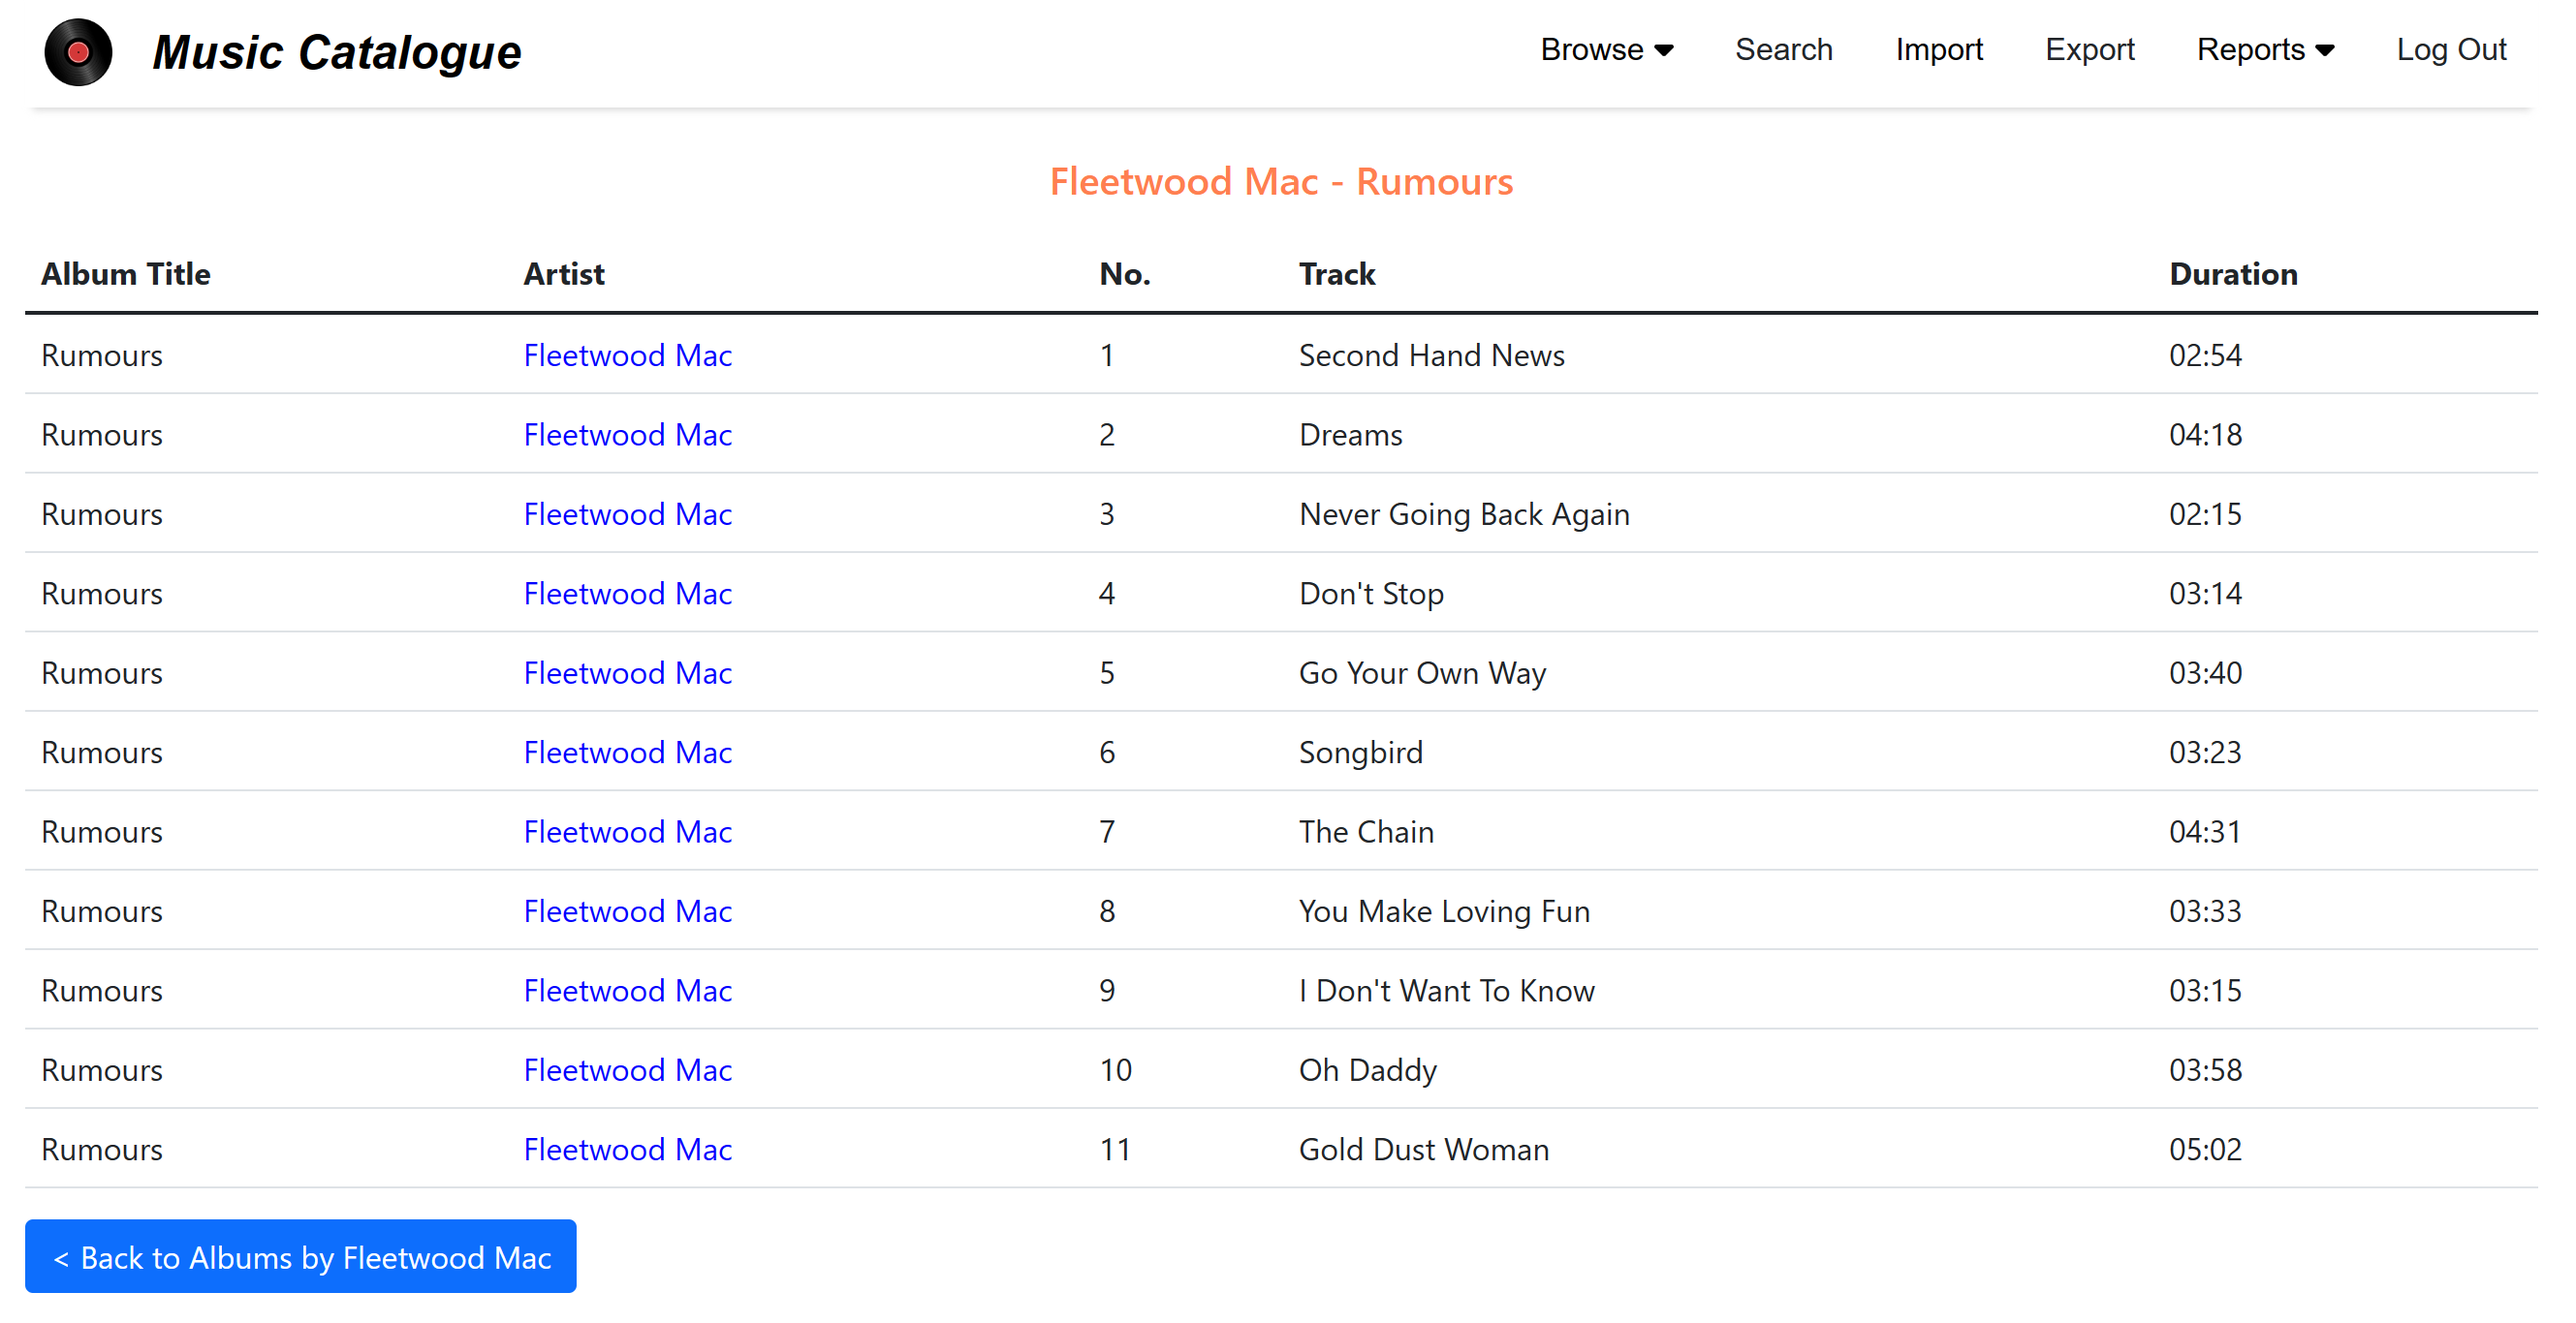
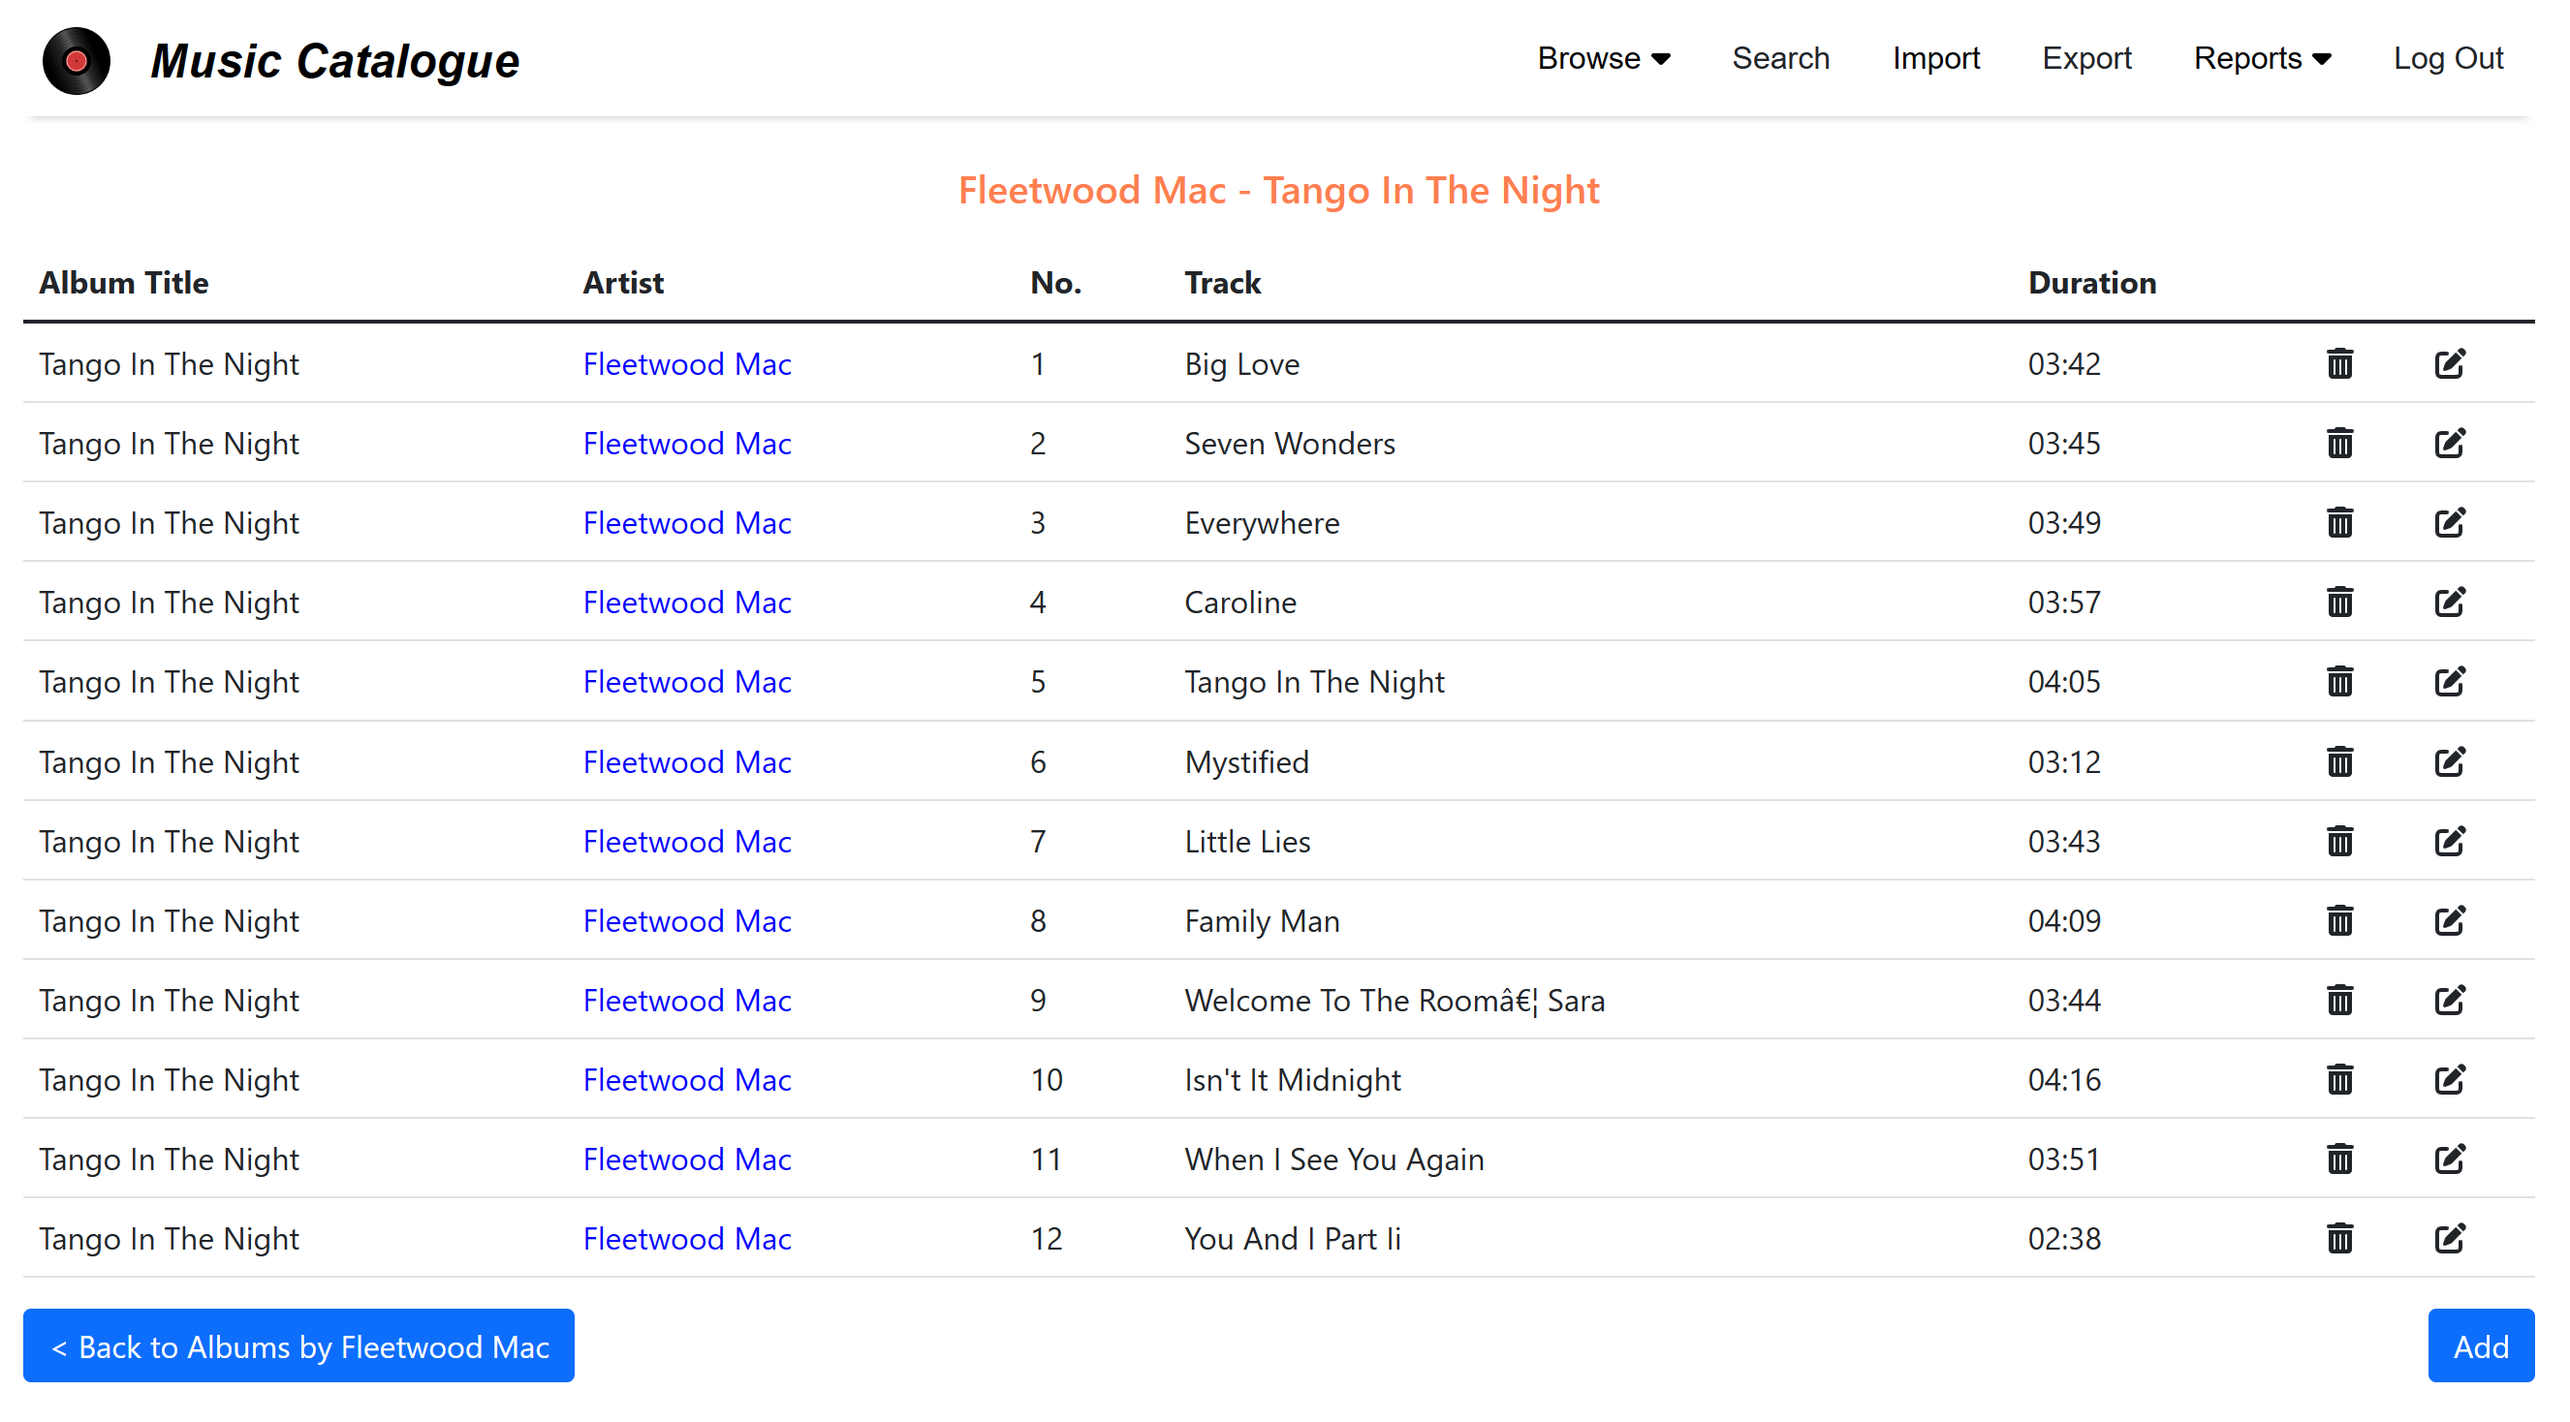
Added ability to add new tracks via the UI

diff --git a/src/music-catalogue-ui/components/trackEditor.js b/src/music-catalogue-ui/components/trackEditor.js
@@ -8,7 +8,7 @@ const TrackEditor = ({ track, album, artist, navigate, logout }) => {
   // Split the track's formatted duration on the ":"
   let initialMinutes = null;
   let initialSeconds = null;
-  if (track.formattedDuration != null) {
+  if (track != null && track.formattedDuration != null) {
     const elements = track.formattedDuration.split(":");
     if (elements.length > 0) {
       initialMinutes = elements[0];
@@ -16,8 +16,12 @@ const TrackEditor = ({ track, album, artist, navigate, logout }) => {
     }
   }
 
-  const [title, setTitle] = useState(track.title);
-  const [number, setNumber] = useState(track.number);
+  // Get initial values for the other properties
+  const initialTitle = track != null ? track.title : null;
+  const initialNumber = track != null ? track.number : null;
+
+  const [title, setTitle] = useState(initialTitle);
+  const [number, setNumber] = useState(initialNumber);
   const [minutes, setMinutes] = useState(initialMinutes);
   const [seconds, setSeconds] = useState(initialSeconds);
   const [error, setError] = useState("");
@@ -38,11 +42,10 @@ const TrackEditor = ({ track, album, artist, navigate, logout }) => {
         const durationSeconds = Number(seconds);
         const duration = 1000 * (60 * durationMinutes + durationSeconds);
 
-        // Either add or update the track, depending on whether they currently
-        // have an ID
+        // Either add or update the track, depending on whether there's an
+        // existing track or not
         let updatedTrack = null;
-        if (track.id <= 0) {
-          // Invalid ID, so create a new track
+        if (track == null) {
           updatedTrack = await apiCreateTrack(
             title,
             number,
@@ -51,7 +54,6 @@ const TrackEditor = ({ track, album, artist, navigate, logout }) => {
             logout
           );
         } else {
-          // Has a valid ID, so update an existing track
           updatedTrack = await apiUpdateTrack(
             track.id,
             title,

diff --git a/src/music-catalogue-ui/components/trackList.js b/src/music-catalogue-ui/components/trackList.js
@@ -2,6 +2,7 @@ import { useCallback } from "react";
 import useTracks from "@/hooks/useTracks";
 import TrackRow from "./trackRow";
 import pages from "@/helpers/navigation";
+import styles from "./trackList.module.css";
 
 /**
  * Component to render the list of tracks for the specified album
@@ -64,6 +65,20 @@ const TrackList = ({ artist, album, isWishList, navigate, logout }) => {
       <button className="btn btn-primary" onClick={() => navigateBack()}>
         &lt; {backButtonText}
       </button>
+      <div className={styles.trackListAddButton}>
+        <button
+          className="btn btn-primary"
+          onClick={() =>
+            navigate({
+              page: pages.trackEditor,
+              artist: artist,
+              album: album,
+            })
+          }
+        >
+          Add
+        </button>
+      </div>
     </>
   );
 };

diff --git a/src/music-catalogue-ui/components/retailerEditor.js b/src/music-catalogue-ui/components/retailerEditor.js
@@ -90,7 +90,7 @@ const RetailerEditor = ({ retailer, navigate, logout }) => {
         );
       }
 
-      // If all's well, display a confirmation message. Otherwise, show an error
+      // If all's well, navigate back to the retailers page. Otherwise, show an error
       if (updatedRetailer == null) {
         const action = retailer.Id <= 0 ? "adding" : "updating";
         setError(`An error occurred ${action} the retailer`);

diff --git a/src/music-catalogue-ui/components/trackList.module.css b/src/music-catalogue-ui/components/trackList.module.css
@@ -1,0 +1,3 @@
+.trackListAddButton {
+  float: right;
+}

diff --git a/README.md b/README.md
@@ -186,6 +186,12 @@ MusicCatalogue.LookupTool --lookup "John Coltrane" "Blue Train" catalogue
 <img src="diagrams/track-list.png" alt="Track List" width="600">
 
 - Clicking on the artist name in any row in the track list or clicking on the "Back" button returns to the album list for that artist
+- Clicking on the "Delete" icon will prompt for confirmation and, if the action is confirmed, will delete the track
+- Clicking on the "Edit" icon opens the track editor to edit the track properties:
+
+<img src="diagrams/track-editor.png" alt="Track List" width="600">
+
+- Clicking on the "Add" button at the bottom of the track list will open a blank track editor to add and save a new track
 
 #### Browsing By Genre
 
